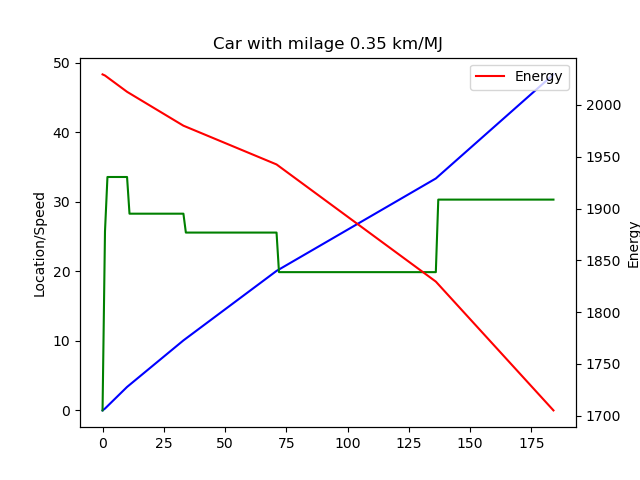
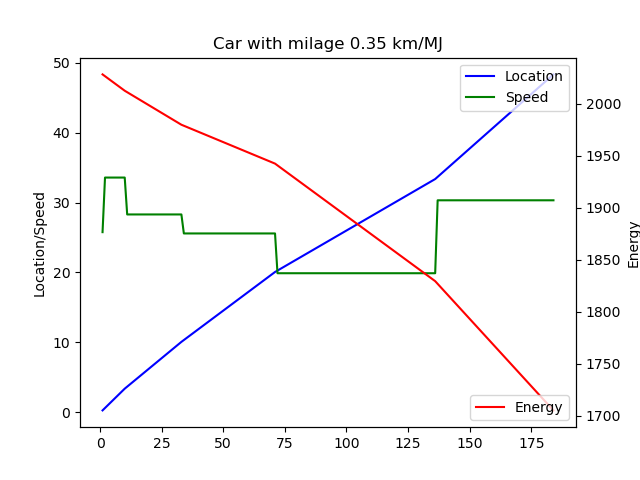
created vehicle log ad plots

diff --git a/Cars_and_UAVs.py b/Cars_and_UAVs.py
@@ -29,8 +29,8 @@ def plot_vehicle(vehicle, filename):
     ax2= ax.twinx()
     ax2.set_ylabel('Energy')
     ax2.plot(log_colums[0], log_colums[2], label='Energy', color='red')
-
-    plt.legend()
+    ax.legend(loc='upper right')
+    ax2.legend(loc='lower right')
     plt.xlabel('Time')
 
     plt.title(vehicle.get_name())
@@ -42,13 +42,13 @@ def main():
     length_trips = 10
     trips = [Road_trip(WayPoints= np.linspace(0, 30, length_trips), SpeedLims=np.random.rand(length_trips)*105,
                        Roughness=np.random.uniform(low=0.3, high=0.8, size=length_trips)),
-             Flight_plan(WayPoints= np.linspace(0, 1, length_trips), Headwinds=np.random.rand(length_trips)*18),
+             Flight_plan(WayPoints= np.linspace(0, 20, length_trips), Headwinds=np.random.rand(length_trips)*18),
              Road_trip(WayPoints= np.linspace(0, 300, length_trips), SpeedLims=np.random.rand(length_trips)*105,
                        Roughness=np.random.uniform(low=0.3, high=0.8, size=length_trips)),
-             Flight_plan(WayPoints=np.linspace(0, 200, length_trips), Headwinds=np.random.rand(length_trips) * 18)]
+             Flight_plan(WayPoints=np.linspace(0, 80, length_trips), Headwinds=np.random.rand(length_trips) * 10)]
 
              # Make Four Trips
-    vehicle_list = [Car(Top_Speed=105.), UAV(Top_Speed=50., Battery_Charge=100, Range=80),Car(Top_Speed=105.), UAV(Top_Speed=20., Battery_Charge=1, Range=100)]
+    vehicle_list = [Car(Top_Speed=105.), UAV(Top_Speed=30., Battery_Charge=100, Range=30),Car(Top_Speed=105.), UAV(Top_Speed=50., Battery_Charge=290, Range=100)]
 
     for i, vehicle in enumerate(vehicle_list):
         vehicle.add_trip(trips[i])

diff --git a/vehicles.py b/vehicles.py
@@ -40,7 +40,7 @@ class Vehicle(object):
         # that describes the trip characteristics
         self.loc = 0.  # Location from start of trip. V km interval
         self.i = 0  # Index of current segment
-        self.log = [np.array([self.i, self.loc, self.E_avail, 0., 0.])]  # Log of
+        self.log = []  # Log of vehicle
 
     # Replensish the vehicle's store of energy
     def ReEnergize(self):
@@ -75,6 +75,7 @@ class Vehicle(object):
             energy = distance / efficiency  # km/(km/MJ)
             self.E_avail -= energy
             self.i += 1
+            # Log the trip
             self.log.append(np.array([self.i, Loc, self.E_avail, speed, efficiency]))
 
 
